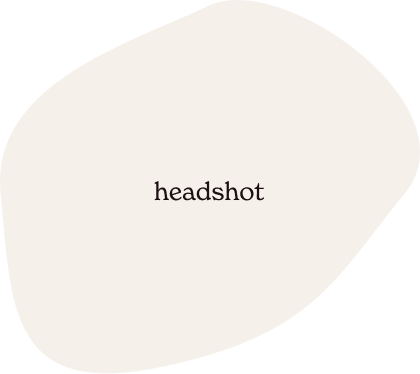
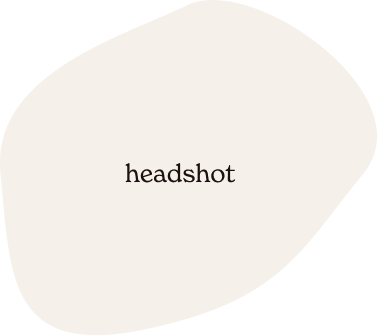
updates to full website pages

Changed region(s): [[0.321, 0.4762, 0.6419, 0.5655]]

diff --git a/soon.html b/soon.html
@@ -16,36 +16,27 @@
     <link rel="preconnect" href="https://fonts.gstatic.com" crossorigin>
     <link href="https://fonts.googleapis.com/css2?family=Martian+Mono:wght@300&family=Poppins&display=swap"
         rel="stylesheet">
-    <title>Botaki Studio - About</title>
+    <title>Botaki Studio - Studio</title>
 </head>
 
-<body class="about-page">
+<body class="studio-page">
     <div class="nav-bar">
         <div class="menu-nav d-flex justify-content-start">
             <div class="row">
                 <a class="col nav-link" href="index.html" target="_blank">
                     <h3>home</h3>
                 </a>
+                <a class="col nav-link" href="about.html" target="_blank">
+                    <h3>about</h3>
+                </a>
                 <a class="col nav-link" href="blog.html" target="_blank">
                     <h3>blog</h3>
-                </a>
-                <a class="col nav-link" href="studio.html" target="_blank">
-                    <h3>studio</h3>
                 </a>
             </div>
         </div>
     </div>
-    <div class="about-section">
-        <div class="row"><img class="col headshot" src="images/section 1.png" alt="headshot" class="img-fluid" />
-            <div class="col">
-                <h2 class="about-header">Hi, I'm Boipelo Khunou 👋🏽</h2>
-                <p class="about-text">Lorem ipsum dolor sit amet, consetetur sadipscing elitr, sed diam nonumy eirmod
-                    tempor invidunt ut
-                    labore et dolore magna aliquyam erat.
-                    <br><br>📧 botakikebotshelo@gmail.com
-                </p>
-            </div>
-        </div>
+    <div>
+        <p class="soon-message">beautiful things coming soon...🍀</p>
     </div>
     <img src="images/logo-sm.png" alt="logo-footer" class="logo-footer position-absolute bottom-0 end-0 p-3">
 </body>

diff --git a/style/style.css b/style/style.css
@@ -128,17 +128,14 @@ h3 {
   transform: translate(-50%, -50%);
 }
 
-.about-section .col {
-}
-
 .headshot {
   max-width: 373px;
   max-height: 420px;
-  padding: 0px 25px;
 }
 
 .about-header {
   text-align: start;
+  padding-left: 100px;
 }
 
 .about-text {
@@ -146,12 +143,12 @@ h3 {
   text-align: start;
   max-width: 660px;
   padding-top: 30px;
+  padding-left: 100px;
 }
 
 /* Blog Page CSS */
 
 /* Studio Page CSS */
-
 .studio-page {
   background-color: #ec9831 !important;
   min-height: 100vh;
@@ -159,13 +156,18 @@ h3 {
   margin: 0 auto;
 }
 
-.container {
-  margin: 0 auto;
-  display: flex;
-  align-items: center;
-  justify-content: center;
+.studio-links {
+  position: absolute;
+  top: 50%;
+  left: 50%;
+  transform: translate(-50%, -50%);
 }
 
-.studio-links .img-links {
-  max-width: 240;
+.soon-message {
+  font-family: var(--heading-font-family);
+  text-align: center;
+  position: absolute;
+  top: 50%;
+  left: 50%;
+  transform: translate(-50%, -50%);
 }

diff --git a/studio.html b/studio.html
@@ -37,9 +37,9 @@
     </div>
     <div class="container studio-links d-flex justify-content-center">
         <div class="row">
-            <a class="col"><img class="img-links" src="images/studio/apparel.png"></a>
-            <a class="col"><img class="img-links" src="images/studio/art.png"></a>
-            <a class="col"><img class="img-links" src="images/studio/lifestyle.png"></a>
+            <a class="col" href="soon.html"><img class="img-links" src="images/studio/apparel.png"></a>
+            <a class="col" href="soon.html"><img class="img-links" src="images/studio/art.png"></a>
+            <a class="col" href="soon.html"><img class="img-links" src="images/studio/lifestyle.png"></a>
         </div>
     </div>
     <img src="images/logo-sm.png" alt="logo-footer" class="logo-footer position-absolute bottom-0 end-0 p-3">
